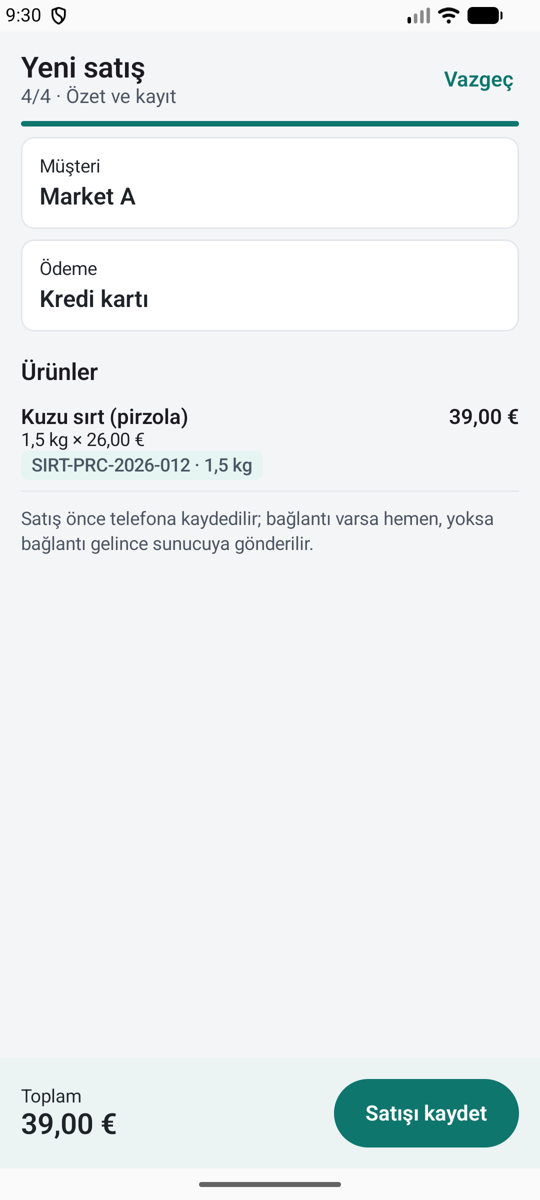
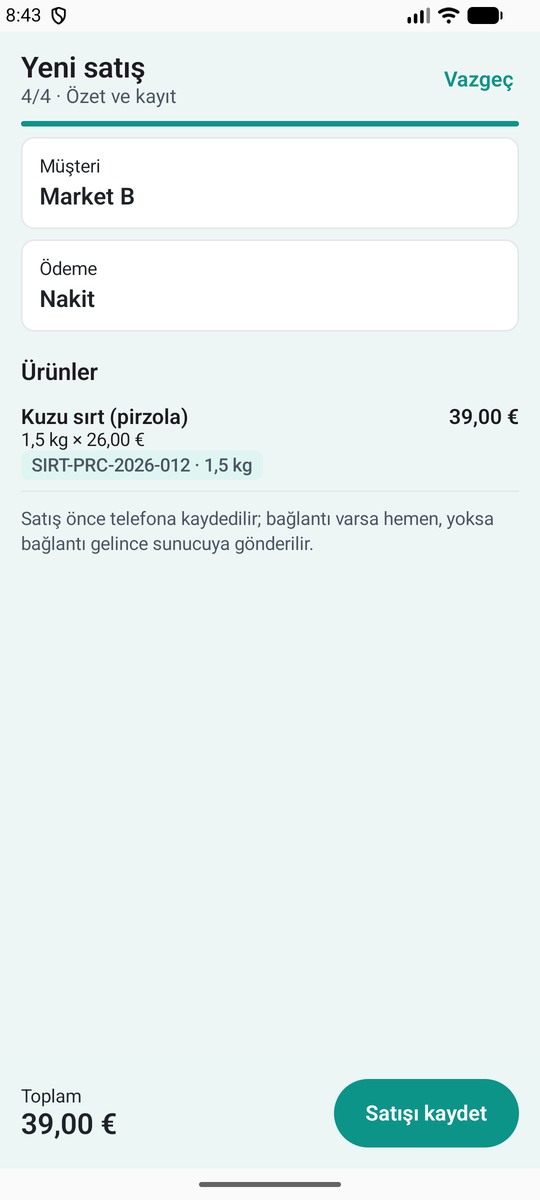
Android ekran görüntüleri turkuaz üst çubukla yeniden çekildi

diff --git a/docs/ekran_goruntuleri/README.md b/docs/ekran_goruntuleri/README.md
@@ -2,7 +2,7 @@
 
 Uygulamanın bütün ekranları, demo verisiyle (şartname senaryosu ve örnek günlük işler). Sistemi kurmadan uygulamayı görmek için.
 Web görüntüleri 1440 px genişlikte tam sayfa; Android görüntüleri emülatörden (yarı boyut).
-Web görüntüleri 28 Ekim 2026'da, sıfırdan kurulan sistemden turkuaz + 3B arayüzle çekildi (alarm, denetim, e-posta, panel ve hesaplayıcı ekranları dahil). Android görüntüleri aynı günün ilk turundan; telefondaki üst çubuk artık turkuazdır.
+28 Ekim 2026'da, sıfırdan kurulan sistemden turkuaz + 3B arayüzle çekildi (alarm, denetim, e-posta, panel ve hesaplayıcı ekranları dahil); Android görüntüleri emülatörden, turkuaz üst çubukla.
 
 İçindekiler: [Web — giriş ve rollere göre ana sayfa](#1) · [Web — satış, gün sonu](#2) · [Web — depo: mal kabul, stok, son kullanma, sayım](#3) · [Web — üretim: fason üretim (Görev 1), parçalama (Görev 2)](#4) · [Web — kalite: izleme, tatbikat, geri çağırma (Görev 3)](#5) · [Web — raporlar, yapay zekâ, yönetim](#6) · [Web — alarm, denetim, e-posta, hesaplayıcılar, faturadan doldur](#7) · [Web — yazdırılabilir belgeler](#8) · [Web — İngilizce ve telefon genişliği](#9) · [Android (Kotlin) — araçtan satış](#10)
 
@@ -258,13 +258,13 @@ Web görüntüleri 28 Ekim 2026'da, sıfırdan kurulan sistemden turkuaz + 3B ar
 
 <img src="android/A01_giris.png" alt="Giriş; dil seçimi (English / Türkçe)." width="320">
 
-**Ana ekran: eşitleme durumu, büyük "Yeni satış" düğmesi, bugünkü satış ve nakit. Alt menü: Satış, Stok, Geçmiş, Gün sonu.**
+**Ana ekran (turkuaz üst çubuk): eşitleme durumu, büyük "Yeni satış" düğmesi, bugünkü satış ve nakit. Alt menü: Satış, Stok, Geçmiş, Gün sonu.**
 
-<img src="android/A02_ana_sayfa.png" alt="Ana ekran: eşitleme durumu, büyük &quot;Yeni satış&quot; düğmesi, bugünkü satış ve nakit. Alt menü: Satış, Stok, Geçmiş, Gün sonu." width="320">
+<img src="android/A02_ana_sayfa.png" alt="Ana ekran (turkuaz üst çubuk): eşitleme durumu, büyük &quot;Yeni satış&quot; düğmesi, bugünkü satış ve nakit. Alt menü: Satış, Stok, Geçmiş, Gün sonu." width="320">
 
-**Araç stoku: son kullanma tarihi en yakın üstte; satışa kapalı ve süresi yaklaşan lotlar etiketli.**
+**Araç stoku: son kullanma tarihi en yakın üstte; satışa kapalı ya da süresi yaklaşan lot olursa etiketlenir.**
 
-<img src="android/A03_stok.png" alt="Araç stoku: son kullanma tarihi en yakın üstte; satışa kapalı ve süresi yaklaşan lotlar etiketli." width="320">
+<img src="android/A03_stok.png" alt="Araç stoku: son kullanma tarihi en yakın üstte; satışa kapalı ya da süresi yaklaşan lot olursa etiketlenir." width="320">
 
 **Satış 1/4: müşteri ara ve seç.**
 

diff --git a/reports/test_results.md b/reports/test_results.md
@@ -462,4 +462,4 @@ Not: Bu prova T-26'nın yerini tutmaz. Asıl temiz kurulum testi ekip arkadaşı
 - Faturadan doldur: örnek metinden tedarikçi, belge no, tarih, iki satır (lot, miktar, fiyat, SKT) önerildi, forma aktarıldı, kaydedilmedi. Bulunan sorun: "Sucukluk et" adıyla eşleştiği hâlde "Kodla eşleşti" yazıyordu → ad önce denenir.
 - Fiyat artışı alarmında fiyat "10,9 €" yazıyordu → iki basamak ("10,90 €").
 - Telefon genişliğinde (375 px) ana sayfa ve panel tek sütun, yatay taşma yok.
-- Ekran görüntüleri yeniden çekildi: 52 web (yeni 8) + 14 Android (`docs/ekran_goruntuleri`).
+- Ekran görüntüleri yeniden çekildi: 52 web (yeni 8) + 14 Android (emülatör Medium_Phone, turkuaz üst çubuk; satış SAT-2026-0107 Market B 1,5 kg sırt 39,00 € nakit, gönderildi) (`docs/ekran_goruntuleri`).
